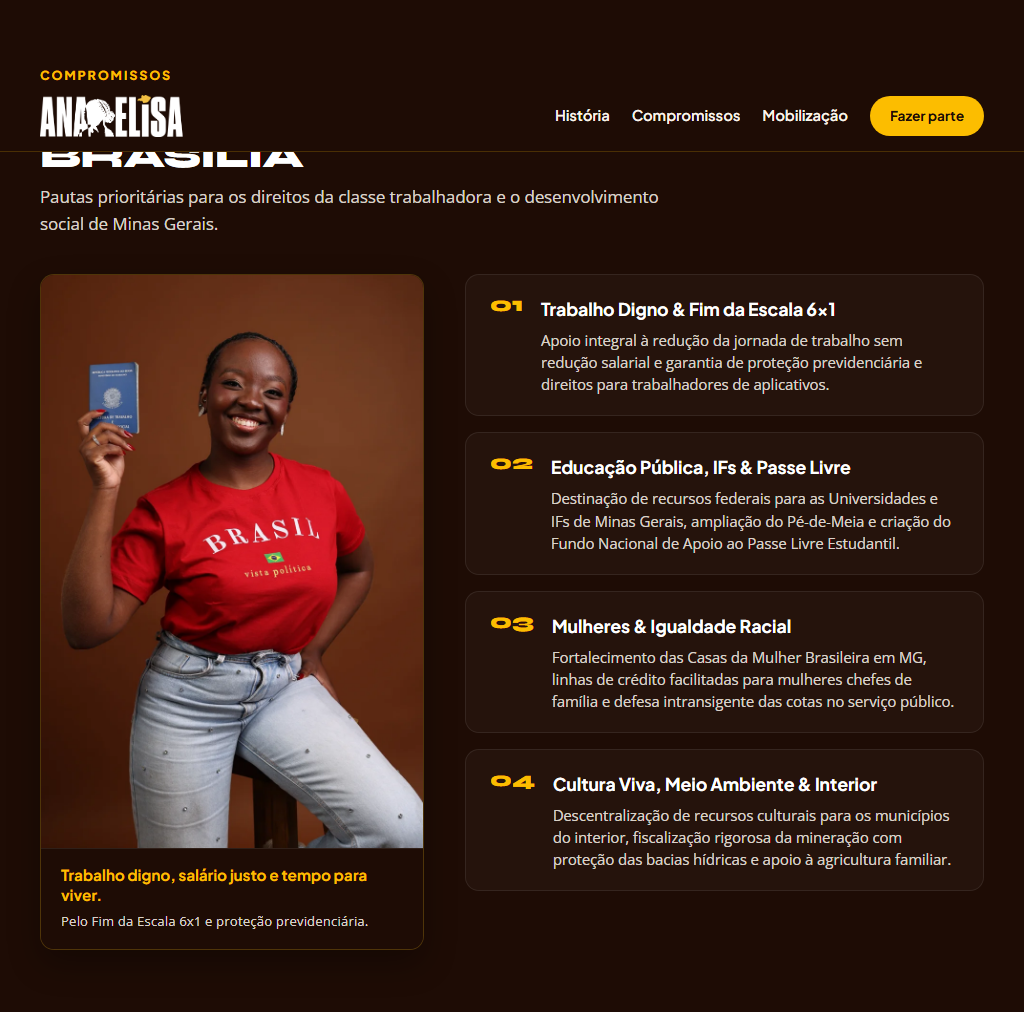
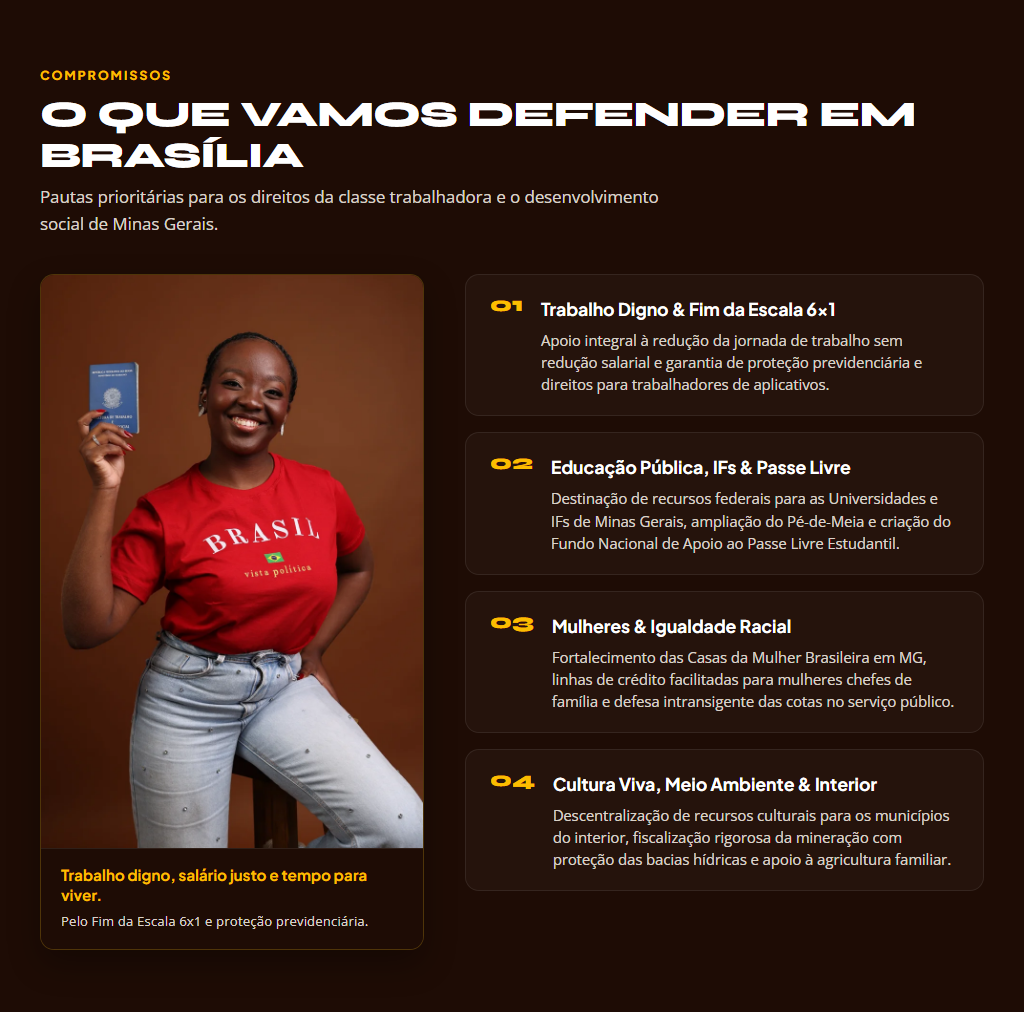
fix(v3-fase-02): corrigir artefato de captura com header fixo e regenerar screenshots limpos

Changed region(s): [[0.0312, 0.0919, 0.9688, 0.1532]]

diff --git a/capture_evidence_fase02.py b/capture_evidence_fase02.py
@@ -25,30 +25,37 @@ async def capture_fase_02():
             page = await browser.new_page(viewport={"width": w, "height": h})
             await page.goto(html_path, wait_until="networkidle")
             
-            # Full page screenshot
+            # 1. Full page screenshot (sem header fixo sobreposto)
+            # Ocultamos temporariamente o header fixo para a captura do elemento isolado, ou usamos viewport limpo
             full_path = os.path.join(evidence_dir, f"full_page_{name}.png")
             await page.screenshot(path=full_path, full_page=True)
             print(f"Captured: full_page_{name}.png ({w}x{h})")
             
-            # Compromissos specific screenshot
+            # 2. Compromissos isolado com scroll natural sem header sobreposto
             comp_el = await page.query_selector("#compromissos")
             if comp_el:
+                # Ocultar o header sticky durante o screenshot do elemento isolado para evitar sobreposição nos recortes
+                await page.evaluate("() => { const h = document.querySelector('.site-header'); if(h) h.style.position = 'relative'; }")
                 comp_path = os.path.join(evidence_dir, f"compromissos_{name}.png")
                 await comp_el.screenshot(path=comp_path)
                 print(f"Captured: compromissos_{name}.png")
+                # Restaurar header
+                await page.evaluate("() => { const h = document.querySelector('.site-header'); if(h) h.style.position = 'sticky'; }")
                 
-            # Mobilizacao specific screenshot for mobile 375px
+            # 3. Mobilizacao specific screenshot for mobile 375px
             if name == "375px":
                 mob_el = await page.query_selector("#mobilizacao")
                 if mob_el:
+                    await page.evaluate("() => { const h = document.querySelector('.site-header'); if(h) h.style.position = 'relative'; }")
                     mob_path = os.path.join(evidence_dir, f"mobilizacao_375px.png")
                     await mob_el.screenshot(path=mob_path)
                     print(f"Captured: mobilizacao_375px.png")
+                    await page.evaluate("() => { const h = document.querySelector('.site-header'); if(h) h.style.position = 'sticky'; }")
                 
             await page.close()
             
         await browser.close()
-        print("SUCCESS: All Fase 2 visual screenshots generated successfully.")
+        print("SUCCESS: All Fase 2 visual screenshots regenerated cleanly without sticky header overlap.")
 
 if __name__ == "__main__":
     asyncio.run(capture_fase_02())
